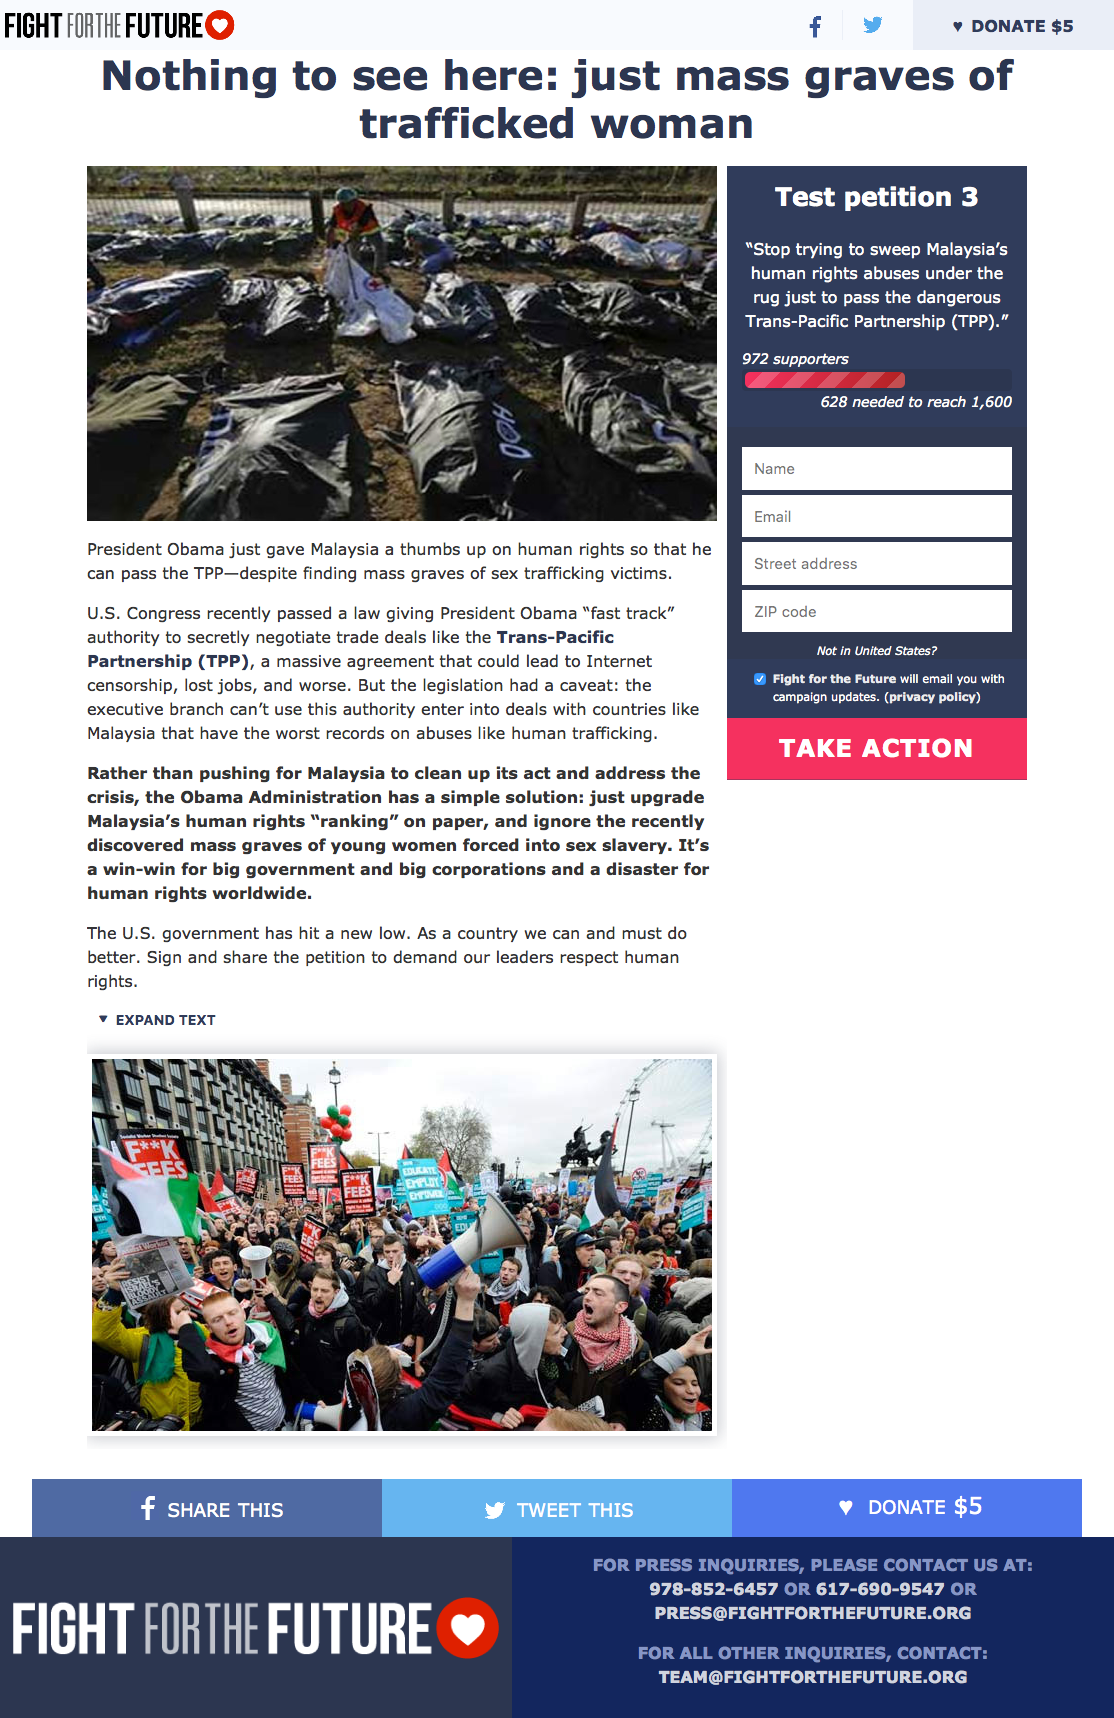
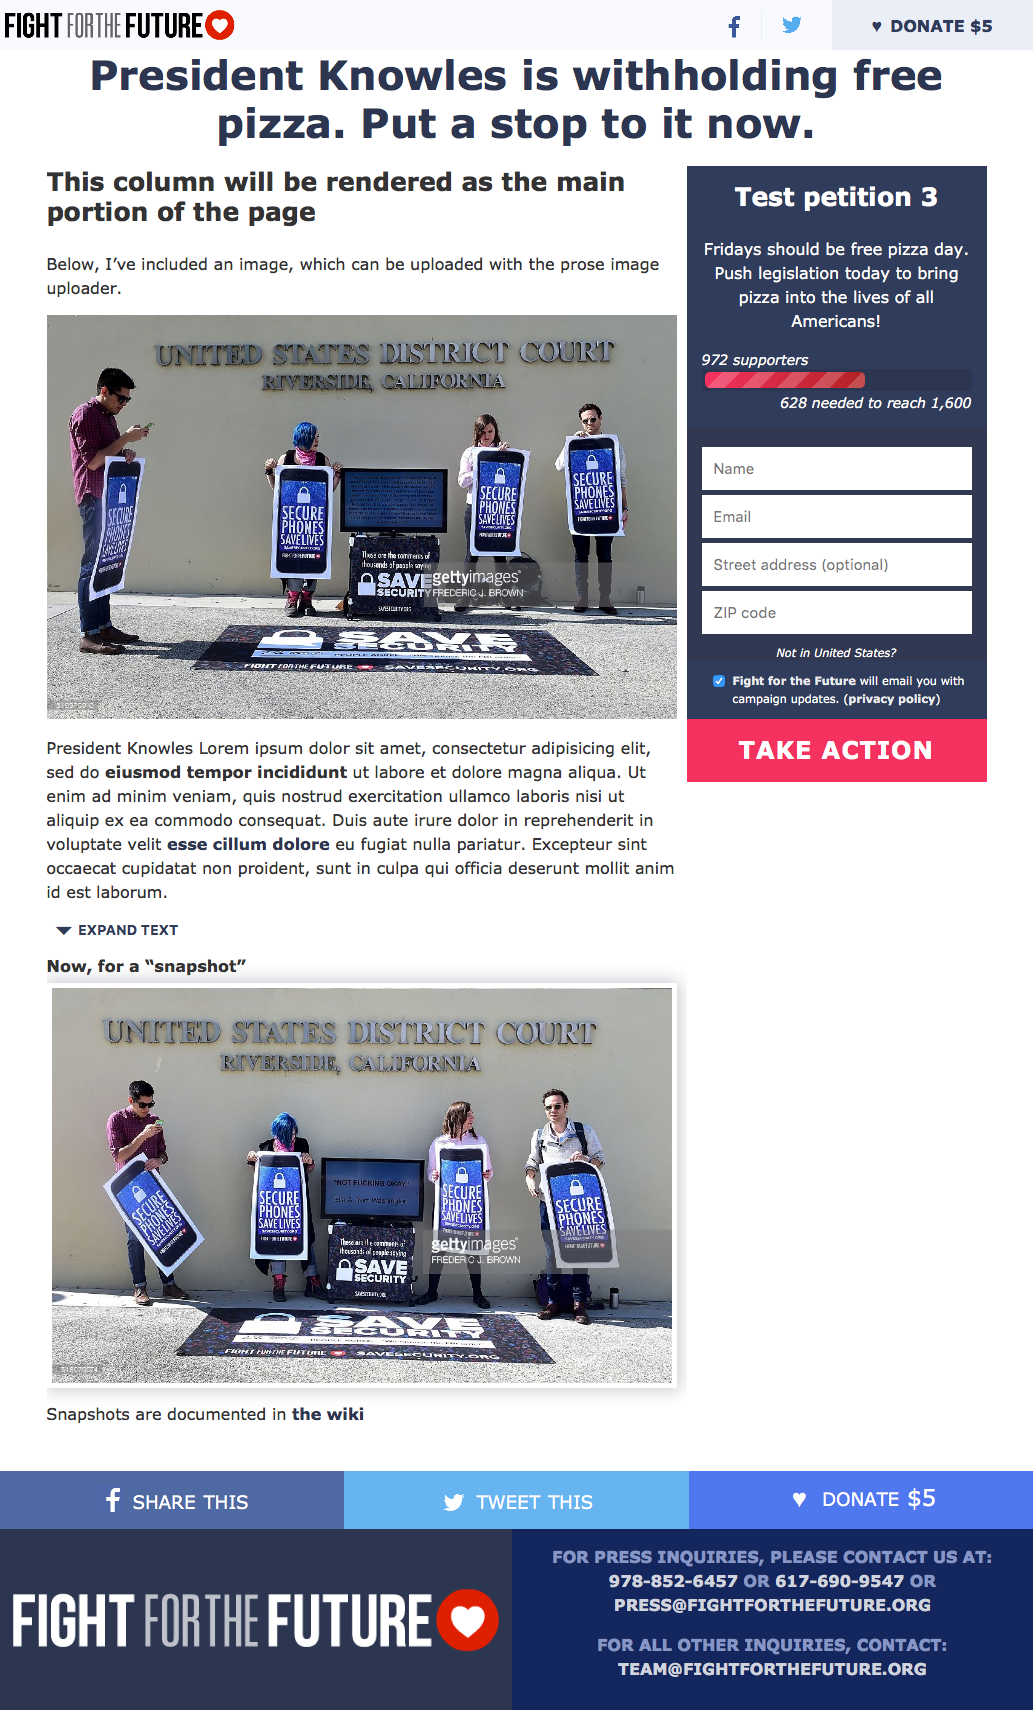
Gives templates more descriptive names
Additionally normalises and lightens each example. And adds pictures of Evan & me at the federal court. 👏

Resolves Card #160

diff --git a/site/_less/layouts/action-network-petitions/blue-two-column.less b/site/_less/layouts/action-network-petitions/blue-two-column.less
@@ -1,4 +1,4 @@
-.obamas-header {
+.blue-two-column {
   .progress-outer() {
     background-color: @blue-850;
     border-radius: 0.4rem;
@@ -51,7 +51,7 @@
 
   .petition-box {
     background-color: @blue-900;
-    margin: 0 0 2.5rem;
+    margin: 0 auto 2.5rem;
     max-width: 40rem;
     min-width: 30rem;
     padding: 2rem 1.5rem;
@@ -98,16 +98,16 @@
     height: 0.8rem;
     padding: 0;
     &::-webkit-progress-value {
-      .obamas-header .progress-inner();
+      .blue-two-column .progress-inner();
     }
     &::-webkit-progress-bar {
-      .obamas-header .progress-outer();
+      .blue-two-column .progress-outer();
     }
     &::-moz-progress-bar {
-      .obamas-header .progress-inner();
+      .blue-two-column .progress-inner();
     }
     &::-ms-fill {
-      .obamas-header .progress-inner();
+      .blue-two-column .progress-inner();
     }
   }
 
@@ -134,6 +134,13 @@
   .petition-info {
     max-width: 60ch;
     padding-top: 2rem;
+
+    @media screen and (min-width: @small-laptop) {
+      position: relative;
+      top: -7rem;
+      background: white;
+      margin-right: 3rem;
+    }
   }
 
   main& {

diff --git a/site/_less/layouts/action-network-petitions/blue-one-column.less b/site/_less/layouts/action-network-petitions/blue-one-column.less
@@ -1,4 +1,4 @@
-.snowden-header {
+.blue-one-column {
   .progress-outer() {
     background-color: lighten(@blue-850, 20%);
   }
@@ -199,10 +199,10 @@
     order: 30;
     padding: 0;
     &::-webkit-progress-value {
-      .snowden-header .progress-inner();
+      .blue-one-column .progress-inner();
     }
     &::-webkit-progress-bar {
-      .snowden-header .progress-outer();
+      .blue-one-column .progress-outer();
     }
   }
 

diff --git a/site/_less/petitions.less b/site/_less/petitions.less
@@ -11,6 +11,6 @@
 
 @import "layouts/core-only";
 @import "layouts/action-network-petitions/index";
-@import "layouts/action-network-petitions/snowden-header";
+@import "layouts/action-network-petitions/blue-one-column";
 @import "layouts/action-network-petitions/white-two-column";
-@import "layouts/action-network-petitions/obamas-header";
+@import "layouts/action-network-petitions/blue-two-column";

diff --git a/Gruntfile.js b/Gruntfile.js
@@ -183,7 +183,7 @@ module.exports = function (grunt) {
         tasks: ['copy:legacy']
       },
       images: {
-        files: ['<%= site.app %>/img/**/*.*'],
+        files: ['img/**/*.*'],
         tasks: ['copy:images']
       },
       less: {

diff --git a/site/_petitions/2016/test-white-two-column.md b/site/_petitions/2016/test-white-two-column.md
@@ -1,45 +1,39 @@
 ---
 layout: "action-network-petitions"
 design: "white-two-column"
-headline: "Nothing to see here: just mass graves of trafficked woman"
-tags: 
-  - foo
-  - bar
+headline: "President Knowles is withholding free pizza. Put a stop to it now."
+tags:
+  - anti-corporate
+  - developer
 petition_title: Test petition 3
-petition_copy: "“Stop trying to sweep Malaysia’s human rights abuses under the rug just to pass the dangerous Trans-Pacific Partnership (TPP).”"
+petition_copy: "Fridays should be free pizza day. Push legislation today to bring pizza into the lives of all Americans!"
 opt_in: false
 allow_comments: false
-additional_fields: 
+additional_fields:
   - name
   - street_address
-required_fields: 
+required_fields:
   - name
-  - street_address
 target_country: US
-petition_slug: "this-is-a-petition-title"
-default_donation_amount: 5
+petition_slug: "free-pizza-day"
+search_description: "Fridays should be free pizza day. Push legislation today to bring pizza into the lives of all Americans!"
 default_donation_frequency: "just-once"
 published: true
 search_description: null
-tweet: null
-social_title: ""
-social_description: ""
-share_image: ""
-share_image_dims: ""
+tweet: "Fridays should be free pizza day. Push legislation today to bring pizza into the lives of all Americans!"
+social_title: "Don’t YOU deserve free pizza?"
+social_description: "President Knowles has the ability to push legislation today to bring pizza into the lives of all Americans! Make sure she hears your voice."
+share_image: /img/share/fftf-share.jpg
+share_image_dims: "1400 x 553"
 ---
 
+## This column will be rendered as the main portion of the page
 
-## This is a big ass headline, up to two lines
+Below, I’ve included an image, which can be uploaded with the prose image uploader.
 
-![Mass graves](/img/page/scratch/Untitled-1.jpg)
+![Dat pizza action](/img/documentation/sample-image-1.jpg)
 
-President Obama just gave Malaysia a thumbs up on human rights so that he can pass the TPP—despite finding mass graves of sex trafficking victims.
-
-U.S. Congress recently passed a law giving President Obama “fast track” authority to secretly negotiate trade deals like the [Trans-Pacific Partnership (TPP)][00], a massive agreement that could lead to Internet censorship, lost jobs, and worse. But the legislation had a caveat: the executive branch can’t use this authority enter into deals with countries like Malaysia that have the worst records on abuses like human trafficking.
-
-**Rather than pushing for Malaysia to clean up its act and address the crisis, the Obama Administration has a simple solution: just upgrade Malaysia’s human rights “ranking” on paper, and ignore the recently discovered mass graves of young women forced into sex slavery. It’s a win-win for big government and big corporations and a disaster for human rights worldwide.**
-
-The U.S. government has hit a new low. As a country we can and must do better. Sign and share the petition to demand our leaders respect human rights.
+President Knowles Lorem ipsum dolor sit amet, consectetur adipisicing elit, sed do **eiusmod tempor incididunt** ut labore et dolore magna aliqua. Ut enim ad minim veniam, quis nostrud exercitation ullamco laboris nisi ut aliquip ex ea commodo consequat. Duis aute irure dolor in reprehenderit in voluptate velit [esse cillum dolore](https://www.fightforthefuture.org/) eu fugiat nulla pariatur. Excepteur sint occaecat cupidatat non proident, sunt in culpa qui officia deserunt mollit anim id est laborum.
 
 {% readmore Expand text %}
 Lorem ipsum dolor sit amet, consectetur adipiscing elit. Duis a velit nisl. Cras ex velit, semper a bibendum in, suscipit eget sem. Donec maximus enim ut rutrum pellentesque. Morbi ut magna quis dui maximus dignissim in vitae tellus. Fusce id laoreet arcu, eu iaculis dolor. Phasellus augue ex, aliquet vel consectetu et, lacinia at dui. Duis justo nunc, cursus ut lacus nec, rhoncus varius arcu. Duis in pharetra velit. Cras eu tempus arcu. Sed at feugiat ante, sit amet congue nulla. Pellentesque habitant morbi tristique senectus et netus et malesuada fames ac turpis egestas. In in diam in purus consectetur aliquet. Phasellus sem lectus, maximus vitae est vitae, feugiat ultrices ipsum.
@@ -47,7 +41,8 @@ Lorem ipsum dolor sit amet, consectetur adipiscing elit. Duis a velit nisl. Cras
 In eget diam varius, sodales turpis vitae, egestas nunc. Cras nec lacus mi. Curabitur in libero ipsum. Curabitur at lorem sed arcu egestas venenatis quis ut purus. Cras pharetra libero at mi rhoncus ultrices. Donec elementum rutrum risus sed vulputate. Aliquam rutrum lectus dolor, at varius ante elementum eu.
 {% endreadmore %}
 
-{% snapshot /img/page/scratch/Untitled-2.jpg This looks like some protesters %}
+### Now, for a “snapshot”
 
+{% snapshot /img/documentation/sample-image-2.jpg Isn’t this a pretty space? %}
 
-[00]: http://readthetpp.com
+Snapshots are documented in [the wiki](https://github.com/fightforthefuture/fightforthefuture.github.io/wiki/%22snapshot%22-tag)

diff --git a/site/_petitions/2016/test-obamas-header.md b/site/_petitions/2016/test-obamas-header.md
@@ -1,12 +1,12 @@
 ---
 layout: "action-network-petitions"
-design: "obamas-header"
-headline: "Nothing to see here: just mass graves of trafficked woman"
+design: "blue-two-column"
+headline: "President Knowles is withholding free pizza. Put a stop to it now."
 tags:
-  - foo
-  - bar
+  - anti-corporate
+  - developer
 petition_title: Test petition 3
-petition_copy: "“Stop trying to sweep Malaysia’s human rights abuses under the rug just to pass the dangerous Trans-Pacific Partnership (TPP).”"
+petition_copy: "Fridays should be free pizza day. Push legislation today to bring pizza into the lives of all Americans!"
 opt_in: false
 allow_comments: false
 additional_fields:
@@ -14,29 +14,26 @@ additional_fields:
   - street_address
 required_fields:
   - name
-  - street_address
 target_country: US
-petition_slug: "this-is-a-petition-title"
-default_donation_amount: 5
+petition_slug: "free-pizza-day"
+search_description: "Fridays should be free pizza day. Push legislation today to bring pizza into the lives of all Americans!"
 default_donation_frequency: "just-once"
 published: true
 search_description: null
-tweet: null
-social_title: ""
-social_description: ""
-share_image: ""
-share_image_dims: ""
+tweet: "Fridays should be free pizza day. Push legislation today to bring pizza into the lives of all Americans!"
+social_title: "Don’t YOU deserve free pizza?"
+social_description: "President Knowles has the ability to push legislation today to bring pizza into the lives of all Americans! Make sure she hears your voice."
+share_image: /img/share/fftf-share.jpg
+share_image_dims: "1400 x 553"
 ---
 
-## This is a big ass headline, up to two lines
+## This column will be rendered as the main portion of the page
 
-President Obama just gave Malaysia a thumbs up on human rights so that he can pass the TPP—despite finding mass graves of sex trafficking victims.
+Below, I’ve included an image, which can be uploaded with the prose image uploader.
 
-U.S. Congress recently passed a law giving President Obama “fast track” authority to secretly negotiate trade deals like the [Trans-Pacific Partnership (TPP)][00], a massive agreement that could lead to Internet censorship, lost jobs, and worse. But the legislation had a caveat: the executive branch can’t use this authority enter into deals with countries like Malaysia that have the worst records on abuses like human trafficking.
+![Dat pizza action](/img/documentation/sample-image-1.jpg)
 
-**Rather than pushing for Malaysia to clean up its act and address the crisis, the Obama Administration has a simple solution: just upgrade Malaysia’s human rights “ranking” on paper, and ignore the recently discovered mass graves of young women forced into sex slavery. It’s a win-win for big government and big corporations and a disaster for human rights worldwide.**
-
-The U.S. government has hit a new low. As a country we can and must do better. Sign and share the petition to demand our leaders respect human rights.
+President Knowles Lorem ipsum dolor sit amet, consectetur adipisicing elit, sed do **eiusmod tempor incididunt** ut labore et dolore magna aliqua. Ut enim ad minim veniam, quis nostrud exercitation ullamco laboris nisi ut aliquip ex ea commodo consequat. Duis aute irure dolor in reprehenderit in voluptate velit [esse cillum dolore](https://www.fightforthefuture.org/) eu fugiat nulla pariatur. Excepteur sint occaecat cupidatat non proident, sunt in culpa qui officia deserunt mollit anim id est laborum.
 
 {% readmore Expand text %}
 Lorem ipsum dolor sit amet, consectetur adipiscing elit. Duis a velit nisl. Cras ex velit, semper a bibendum in, suscipit eget sem. Donec maximus enim ut rutrum pellentesque. Morbi ut magna quis dui maximus dignissim in vitae tellus. Fusce id laoreet arcu, eu iaculis dolor. Phasellus augue ex, aliquet vel consectetu et, lacinia at dui. Duis justo nunc, cursus ut lacus nec, rhoncus varius arcu. Duis in pharetra velit. Cras eu tempus arcu. Sed at feugiat ante, sit amet congue nulla. Pellentesque habitant morbi tristique senectus et netus et malesuada fames ac turpis egestas. In in diam in purus consectetur aliquet. Phasellus sem lectus, maximus vitae est vitae, feugiat ultrices ipsum.
@@ -44,7 +41,8 @@ Lorem ipsum dolor sit amet, consectetur adipiscing elit. Duis a velit nisl. Cras
 In eget diam varius, sodales turpis vitae, egestas nunc. Cras nec lacus mi. Curabitur in libero ipsum. Curabitur at lorem sed arcu egestas venenatis quis ut purus. Cras pharetra libero at mi rhoncus ultrices. Donec elementum rutrum risus sed vulputate. Aliquam rutrum lectus dolor, at varius ante elementum eu.
 {% endreadmore %}
 
-{% snapshot /img/page/scratch/Untitled-2.jpg This looks like some protesters %}
+### Now, for a “snapshot”
 
+{% snapshot /img/documentation/sample-image-2.jpg Isn’t this a pretty space? %}
 
-[00]: http://readthetpp.com
+Snapshots are documented in [the wiki](https://github.com/fightforthefuture/fightforthefuture.github.io/wiki/%22snapshot%22-tag)

diff --git a/site/_petitions/2016/test-snowden-header.md b/site/_petitions/2016/test-snowden-header.md
@@ -1,43 +1,39 @@
 ---
 layout: "action-network-petitions"
-design: "snowden-header"
-headline: "Nothing to see here: just mass graves of trafficked woman"
+design: "blue-one-column"
+headline: "President Knowles is withholding free pizza. Put a stop to it now."
 tags:
-  - foo
-  - bar
+  - anti-corporate
+  - developer
 petition_title: Test petition 3
-petition_copy: "“Stop trying to sweep Malaysia’s human rights abuses under the rug just to pass the dangerous Trans-Pacific Partnership (TPP).”"
+petition_copy: "Fridays should be free pizza day. Push legislation today to bring pizza into the lives of all Americans!"
 opt_in: false
 allow_comments: false
 additional_fields:
   - name
   - street_address
-  - city
 required_fields:
   - name
-  - street_address
 target_country: US
-petition_slug: "this-is-a-petition-title"
-default_donation_amount: 5
+petition_slug: "free-pizza-day"
+search_description: "Fridays should be free pizza day. Push legislation today to bring pizza into the lives of all Americans!"
 default_donation_frequency: "just-once"
 published: true
 search_description: null
-tweet: null
-social_title: ""
-social_description: ""
-share_image: ""
-share_image_dims: ""
+tweet: "Fridays should be free pizza day. Push legislation today to bring pizza into the lives of all Americans!"
+social_title: "Don’t YOU deserve free pizza?"
+social_description: "President Knowles has the ability to push legislation today to bring pizza into the lives of all Americans! Make sure she hears your voice."
+share_image: /img/share/fftf-share.jpg
+share_image_dims: "1400 x 553"
 ---
 
-## This is a big ass headline, up to two lines
+## This column will be rendered as the main portion of the page
 
-President Obama just gave Malaysia a thumbs up on human rights so that he can pass the TPP—despite finding mass graves of sex trafficking victims.
+Below, I’ve included an image, which can be uploaded with the prose image uploader.
 
-U.S. Congress recently passed a law giving President Obama “fast track” authority to secretly negotiate trade deals like the [Trans-Pacific Partnership (TPP)][00], a massive agreement that could lead to Internet censorship, lost jobs, and worse. But the legislation had a caveat: the executive branch can’t use this authority enter into deals with countries like Malaysia that have the worst records on abuses like human trafficking.
+![Dat pizza action](/img/documentation/sample-image-1.jpg)
 
-**Rather than pushing for Malaysia to clean up its act and address the crisis, the Obama Administration has a simple solution: just upgrade Malaysia’s human rights “ranking” on paper, and ignore the recently discovered mass graves of young women forced into sex slavery. It’s a win-win for big government and big corporations and a disaster for human rights worldwide.**
-
-The U.S. government has hit a new low. As a country we can and must do better. Sign and share the petition to demand our leaders respect human rights.
+President Knowles Lorem ipsum dolor sit amet, consectetur adipisicing elit, sed do **eiusmod tempor incididunt** ut labore et dolore magna aliqua. Ut enim ad minim veniam, quis nostrud exercitation ullamco laboris nisi ut aliquip ex ea commodo consequat. Duis aute irure dolor in reprehenderit in voluptate velit [esse cillum dolore](https://www.fightforthefuture.org/) eu fugiat nulla pariatur. Excepteur sint occaecat cupidatat non proident, sunt in culpa qui officia deserunt mollit anim id est laborum.
 
 {% readmore Expand text %}
 Lorem ipsum dolor sit amet, consectetur adipiscing elit. Duis a velit nisl. Cras ex velit, semper a bibendum in, suscipit eget sem. Donec maximus enim ut rutrum pellentesque. Morbi ut magna quis dui maximus dignissim in vitae tellus. Fusce id laoreet arcu, eu iaculis dolor. Phasellus augue ex, aliquet vel consectetu et, lacinia at dui. Duis justo nunc, cursus ut lacus nec, rhoncus varius arcu. Duis in pharetra velit. Cras eu tempus arcu. Sed at feugiat ante, sit amet congue nulla. Pellentesque habitant morbi tristique senectus et netus et malesuada fames ac turpis egestas. In in diam in purus consectetur aliquet. Phasellus sem lectus, maximus vitae est vitae, feugiat ultrices ipsum.
@@ -45,7 +41,8 @@ Lorem ipsum dolor sit amet, consectetur adipiscing elit. Duis a velit nisl. Cras
 In eget diam varius, sodales turpis vitae, egestas nunc. Cras nec lacus mi. Curabitur in libero ipsum. Curabitur at lorem sed arcu egestas venenatis quis ut purus. Cras pharetra libero at mi rhoncus ultrices. Donec elementum rutrum risus sed vulputate. Aliquam rutrum lectus dolor, at varius ante elementum eu.
 {% endreadmore %}
 
-{% snapshot /img/page/scratch/Untitled-2.jpg This looks like some protesters %}
+### Now, for a “snapshot”
 
+{% snapshot /img/documentation/sample-image-2.jpg Isn’t this a pretty space? %}
 
-[00]: http://readthetpp.com
+Snapshots are documented in [the wiki](https://github.com/fightforthefuture/fightforthefuture.github.io/wiki/%22snapshot%22-tag)

diff --git a/site/_petitions/2016/comey-tell-the-truth.md b/site/_petitions/2016/comey-tell-the-truth.md
@@ -1,6 +1,6 @@
 ---
 layout: "action-network-petitions"
-design: "snowden-header"
+design: "blue-one-column"
 headline: Comey just lied to us
 petition_title: Comey tell the truth
 petition_copy: "Comey is lying. The FBI had a way to access the iPhone all along. Now they&#x27;re backing down, and lying about it. Tell Comey to come clean!"
